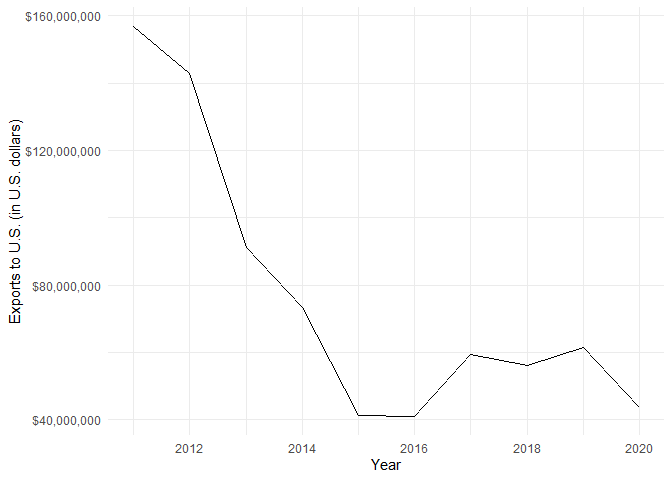
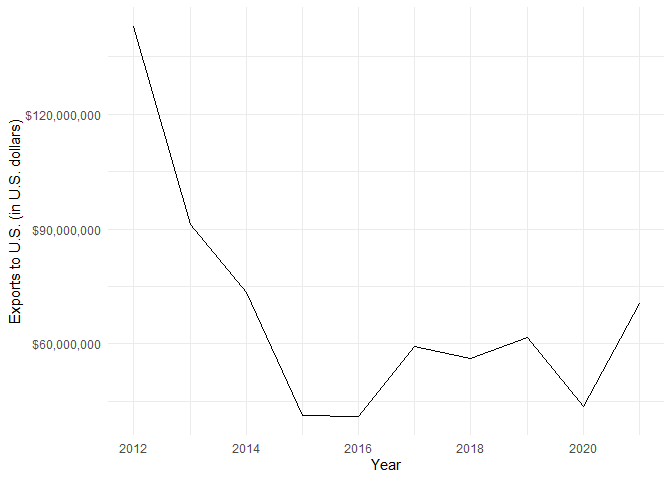
Update

diff --git a/README.md b/README.md
@@ -39,7 +39,8 @@ Bureau](https://www.census.gov/foreign-trade/balance/c7650.html)
 | 2018 |    61.6 |   196.7 |   135.1 |
 | 2019 |    65.6 |   113.9 |    48.2 |
 | 2020 |    45.1 |    93.2 |    48.1 |
-| 2021 |    27.6 |    35.5 |     8.0 |
+| 2021 |    72.9 |   143.4 |    70.5 |
+| 2022 |     8.6 |     4.0 |    -4.6 |
 
 ## Imports from Liberia (in millions)
 
@@ -49,55 +50,55 @@ Bureau](https://www.census.gov/foreign-trade/balance/c7650.html)
 
 ![](README_files/figure-gfm/exports-plot-1.png)<!-- -->
 
-## Top 20 U.S. products exported to Liberia, 2011-2020 (U.S. dollars)
+## Top 20 U.S. products exported to Liberia, 2011-2021 (U.S. dollars)
 
 | EXPORT                                                  |        TOTAL |
 |:--------------------------------------------------------|-------------:|
-| Drilling & oilfield equipment                           | $244,157,652 |
-| Apparel, household goods - textile                      | $114,466,390 |
-| Passenger cars, new and used                            | $110,089,405 |
-| Wheat                                                   |  $91,935,691 |
-| Rice                                                    |  $91,010,618 |
-| Industrial machines, other                              |  $80,355,872 |
-| Materials handling equipment                            |  $72,068,800 |
-| Minimum value shipments                                 |  $65,935,651 |
-| Finished metal shapes                                   |  $62,853,404 |
-| Other foods                                             |  $61,676,686 |
-| Measuring, testing, control instruments                 |  $50,675,903 |
-| Petroleum products, other                               |  $48,216,172 |
-| Excavating machinery                                    |  $42,573,593 |
-| Railway transportation equipment                        |  $33,432,660 |
-| Other parts and accessories of vehicles                 |  $25,599,661 |
-| Cell phones and other household goods, n.e.c.           |  $21,714,301 |
-| Meat, poultry, etc.                                     |  $19,029,801 |
-| Plastic materials                                       |  $18,724,345 |
-| Miscellaneous domestic exports and special transactions |  $18,318,675 |
-| Electric apparatus                                      |  $17,976,887 |
+| Drilling & oilfield equipment                           | $237,283,818 |
+| Apparel, household goods - textile                      | $109,900,255 |
+| Passenger cars, new and used                            |  $99,011,878 |
+| Wheat                                                   |  $85,930,665 |
+| Industrial machines, other                              |  $82,139,189 |
+| Petroleum products, other                               |  $79,738,466 |
+| Materials handling equipment                            |  $73,479,129 |
+| Minimum value shipments                                 |  $64,488,879 |
+| Rice                                                    |  $63,609,205 |
+| Other foods                                             |  $59,853,777 |
+| Finished metal shapes                                   |  $52,333,218 |
+| Measuring, testing, control instruments                 |  $40,515,108 |
+| Railway transportation equipment                        |  $35,895,517 |
+| Excavating machinery                                    |  $35,199,029 |
+| Cell phones and other household goods, n.e.c.           |  $31,054,828 |
+| Other parts and accessories of vehicles                 |  $26,900,397 |
+| Plastic materials                                       |  $19,024,746 |
+| Miscellaneous domestic exports and special transactions |  $18,304,840 |
+| Electric apparatus                                      |  $18,046,602 |
+| Iron and steel products, other                          |  $17,187,983 |
 
-## Top 20 U.S. products imported from Liberia, 2011-2020 (U.S. dollars)
+## Top 20 U.S. products imported from Liberia, 2011-2021 (U.S. dollars)
 
 | IMPORT                                        |        TOTAL |
 |:----------------------------------------------|-------------:|
-| Natural rubber                                | $767,293,303 |
-| U.S. goods returned, and reimports            |  $48,669,582 |
-| Sulfur, nonmetallic minerals                  |  $11,864,409 |
-| Gem diamonds                                  |  $10,497,980 |
-| Food oils, oilseeds                           |   $4,917,110 |
-| Artwork, antiques, stamps, etc.               |   $4,454,875 |
-| Nonmonetary gold                              |   $1,839,060 |
-| Lumber                                        |     $829,873 |
-| Cell phones and other household goods, n.e.c. |     $729,439 |
+| Natural rubber                                | $680,985,043 |
+| U.S. goods returned, and reimports            |  $49,177,464 |
+| Sulfur, nonmetallic minerals                  |  $11,853,159 |
+| Gem diamonds                                  |  $10,828,818 |
+| Food oils, oilseeds                           |   $5,407,479 |
+| Artwork, antiques, stamps, etc.               |   $4,098,537 |
 | Semiconductors                                |     $705,627 |
-| Minimum value shipments                       |     $523,140 |
+| Cell phones and other household goods, n.e.c. |     $669,128 |
+| Minimum value shipments                       |     $599,990 |
+| Nonmonetary gold                              |     $548,560 |
+| Numismatic coins                              |     $511,571 |
+| Lumber                                        |     $506,348 |
 | Gem stones, other                             |     $498,379 |
+| Petroleum products, other                     |     $277,697 |
 | Pharmaceutical preparations                   |     $210,985 |
-| Petroleum products, other                     |     $200,279 |
 | Chemicals-other, n.e.c.                       |     $171,395 |
-| Other parts and accessories of vehicles       |     $164,138 |
-| Cocoa beans                                   |     $161,011 |
+| Other parts and accessories of vehicles       |     $166,638 |
+| Electric apparatus                            |     $161,214 |
 | Photo, service industry machinery             |     $159,024 |
-| Synthetic rubber–primary                      |     $148,952 |
-| Numismatic coins                              |     $132,947 |
+| Synthetic rubber–primary                      |     $140,502 |
 
 ## Liberian rubber exports to U.S.
 
@@ -105,7 +106,6 @@ Bureau](https://www.census.gov/foreign-trade/balance/c7650.html)
 
 | YEAR |        TOTAL |
 |:-----|-------------:|
-| 2011 | $156,754,793 |
 | 2012 | $142,848,717 |
 | 2013 |  $91,242,140 |
 | 2014 |  $73,396,277 |
@@ -115,3 +115,4 @@ Bureau](https://www.census.gov/foreign-trade/balance/c7650.html)
 | 2018 |  $56,124,030 |
 | 2019 |  $61,563,489 |
 | 2020 |  $43,656,031 |
+| 2021 |  $70,446,533 |
